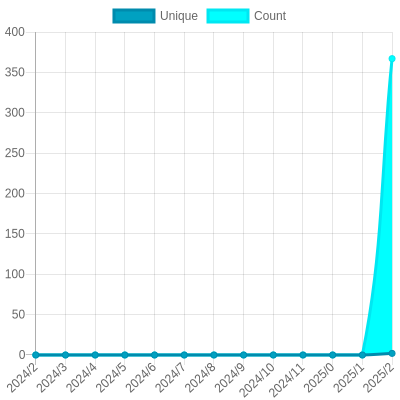
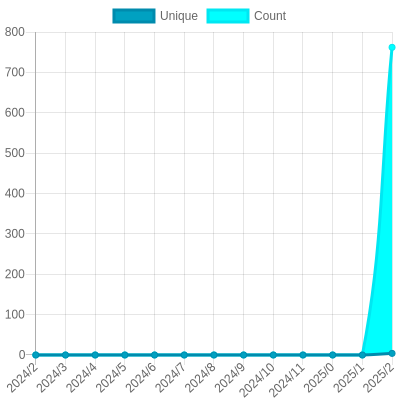
Update views

diff --git a/README.md b/README.md
@@ -26,18 +26,18 @@ The project created and maintained by [gayanvoice](https://github.com/gayanvoice
 			</a>
 		</td>
 		<td>
-			2024/3/16 9:00 PM UTC
+			2024/3/17 12:00 AM UTC
 		</td>
 		<td>
-			1
+			2
 		</td>
 		<td>
-			<img alt="Response time graph" src="https://github.com/crabycode/viewscounter/raw/master/graph/766202793/small/year.png" height="20"> 1
+			<img alt="Response time graph" src="https://github.com/crabycode/viewscounter/raw/master/graph/766202793/small/year.png" height="20"> 367
 		</td>
 	</tr>
 </table>
 
-<small><i>Last updated on 2024/3/18 6:12 PM UTC</i></small>
+<small><i>Last updated on 2024/3/19 12:46 AM UTC</i></small>
 
 ## ✂Copy and 📋 Paste
 ### Total Views Badge

diff --git a/readme/766202793/year.md b/readme/766202793/year.md
@@ -23,10 +23,10 @@
 			<code>2024/3/1</code>
 		</td>
 		<td>
-			<code>2</code>
+			<code>4</code>
 		</td>
 		<td>
-			<code>367</code>
+			<code>762</code>
 		</td>
 	</tr>
 	<tr>
@@ -164,7 +164,7 @@
 </table>
 
 </details>
-<small><i>Last updated on 2024/3/18 6:12 PM UTC</i></small>
+<small><i>Last updated on 2024/3/19 12:46 AM UTC</i></small>
 
 ## ✂Copy and 📋 Paste
 ### SVG Badge
